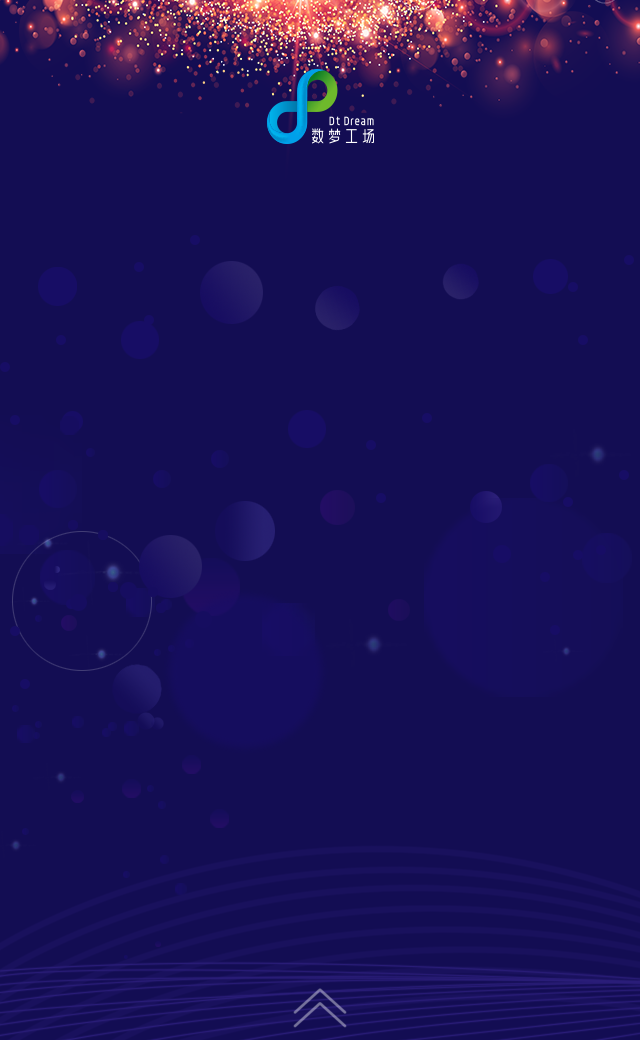
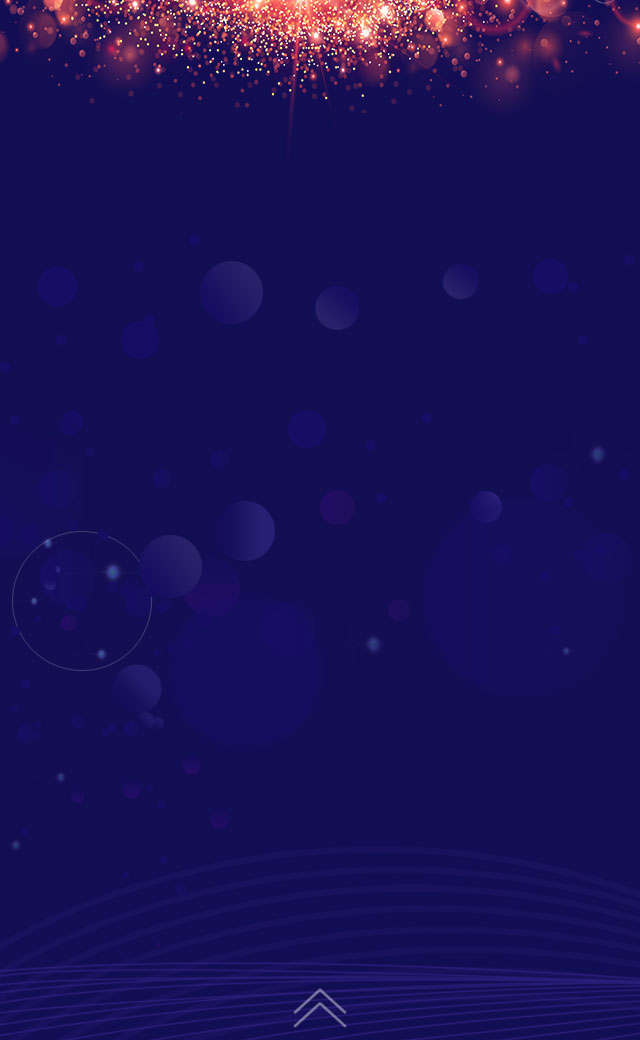
xiugai
xiouga

Changed region(s): [[0.4062, 0.0615, 0.5938, 0.1538]]

diff --git a/index.html b/index.html
@@ -20,6 +20,9 @@
 				<div class="bg">
 					<img src="img/bg.png" />
 				</div>
+				<div class="logo">
+					<img src="img/logo.png" alt="" />
+				</div>
 				<audio id="audio" class="audio" autoplay="autoplay" preload loop="loop">
 					<source src="X-Ray Dog - Flight Of Dreams.mp3"></source>
 				</audio>
@@ -140,7 +143,7 @@
 		
 		$('.page .content').height(conHeight);
 		
-		$('.page .content .bg img').height(conHeight);
+		$('.page .content .bg').height(conHeight);
 
 		console.log($('.page .content').height());
 

diff --git a/css/phone.css b/css/phone.css
@@ -40,6 +40,14 @@ img{
 	width: 100%;
 	height: 100%;
 }
+.page .content .logo{
+	width: 24%;
+	position: absolute;
+	top: 5%;
+	left: 0;
+	right: 0;
+	margin: auto;
+}
 .page .yinyue{
 	position: absolute;
 	width: 16%;
